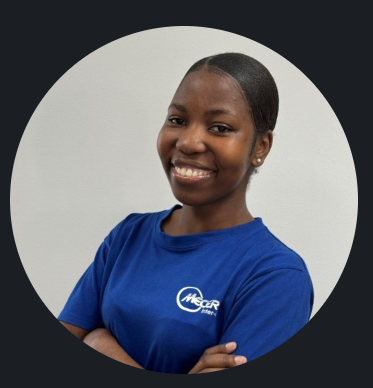
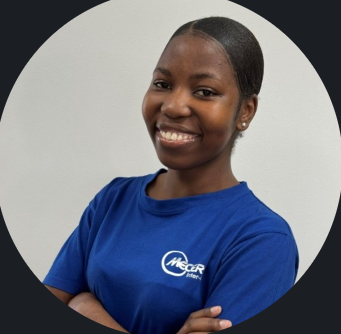
My portfolio skeleton

diff --git a/index.html b/index.html
@@ -6,7 +6,7 @@
     <title>Homepage</title>
     <link rel="stylesheet" href="style.css">
 </head>
-<body>
+<body class="index">
     <div id="mySidebar" class="sidebar">
         <a href="javascript:void(0)" class="closebtn" onclick="closeNav()">&times;</a>
         <a href="index.html">Home</a>
@@ -17,11 +17,16 @@
       
       <div id="main">
         <button class="openbtn" onclick="openNav()">&#9776; Open Sidebar</button>
-        <h2>Collapsed Sidebar</h2>
-        <p>Content...</p>
+        
       </div> 
 
-      <div class="index">
+      <main>
+
+        <h2>A female Aspiring Software Developer</h2>
+        <p></p>
+      </main>
+
+      <div >
 
         <img src="Zee.png" alt="Zees Profile picture">
         <div>This is me</div>

diff --git a/style.css b/style.css
@@ -64,8 +64,18 @@
   }
   .index{
 
-    background-image: url("Zee.png");
-    background-repeat: no-repeat;
-    align-items:center;
+    background-color: #1d1c1c;
     
+  }
+  img{
+    margin-left: 70%;
+    height: 500px;
+    width:auto;
+    border-radius: 50%;
+    border-color: aqua;
+
+  }
+  hr{
+    color: aqua;
+    height:2px;
   }
